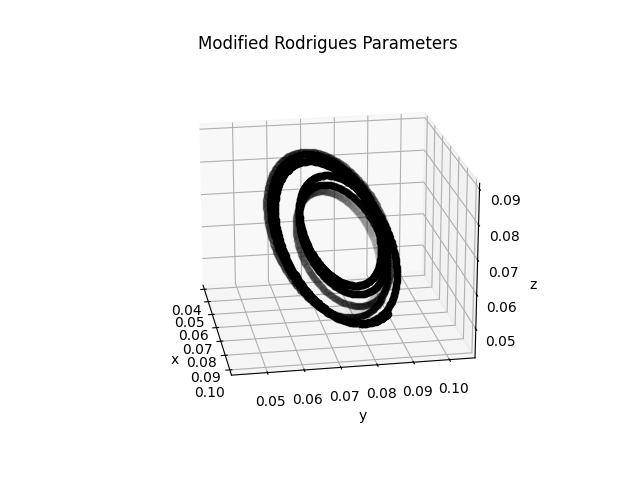
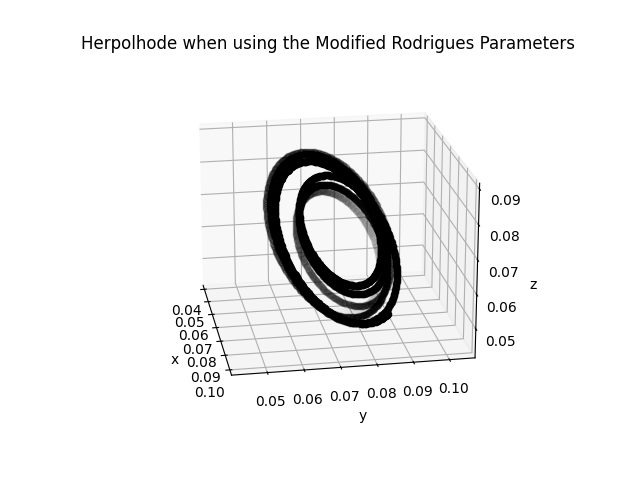
Better title and code structure

Changed region(s): [[0.125, 0.0625, 0.9062, 0.125]]

diff --git a/ps3_inertial_plotting.py b/ps3_inertial_plotting.py
@@ -141,16 +141,7 @@ if False:
 # First, calculate the angular velocities in the inertial frame
 omega_inertial_history_per_sat = []
 
-
-# Then we will plot the angular velocities in the inertial frame
-
-# Do this per satellite
 for sat_name, sat_df in zip(["MRP", "QTR"], [mrp_satellite_df, qtr_satellite_df]):
-    fig = plt.figure()
-    ax = plt.axes(projection='3d')
-
-    # Set the viewpoint
-    ax.view_init(elev=viewpoint["elev"], azim=viewpoint["azim"])
 
     # Make list to store the history of the angular velocities
     omega_inertial_history = []
@@ -181,16 +172,36 @@ for sat_name, sat_df in zip(["MRP", "QTR"], [mrp_satellite_df, qtr_satellite_df]
         # omega_inertial = np.dot(dcm, omega_body)
 
         omega_inertial_history.append(omega_inertial)
-
-        # print(f"accessing index {i // num_skip} with i = {i}")
-        alpha = alpha_linear_scaled[i // num_skip]
-
-        # Just plot the tip of the angular velocity vector
-        ax.scatter3D(omega_inertial[0], omega_inertial[1], omega_inertial[2], color="k", alpha=alpha)   
-        # ax.plot3D([0, omega_inertial[0]], [0, omega_inertial[1]], [0, omega_inertial[2]], "k", alpha=alpha)
     
     # Store the history of the angular velocities
     omega_inertial_history_per_sat.append(omega_inertial_history)
+
+
+# Then we will plot the angular velocities in the inertial frame
+
+# Do this per satellite
+for sat_name, sat_ang_vel in zip(["MRP", "QTR"], omega_inertial_history_per_sat):
+    fig = plt.figure()
+    ax = plt.axes(projection='3d')
+
+    # Set the viewpoint
+    ax.view_init(elev=viewpoint["elev"], azim=viewpoint["azim"])
+
+    # Stack the history of the angular velocities as np array (time, 3)
+    omega_inertial_history = np.array(sat_ang_vel)
+    assert omega_inertial_history.shape[1] == 3
+
+    # Just plot the tip of the angular velocity vector
+    # Plot by alpha which requires plotting each point separately
+    for (wxi, wyi, wzi), alpha in zip(sat_ang_vel, alpha_linear_scaled):
+        ax.scatter3D(wxi, wyi, wzi, color="k", alpha=alpha)
+
+    # ax.scatter3D(omega_inertial_history[:, 0], 
+    #              omega_inertial_history[:, 1], 
+    #              omega_inertial_history[:, 2], 
+    #              c=alpha_linear_scaled,
+    #              cmap="gray",
+    #              alpha=alpha_linear_scaled)
 
     ax.set_xlabel("x")
     ax.set_ylabel("y")
@@ -200,9 +211,9 @@ for sat_name, sat_df in zip(["MRP", "QTR"], [mrp_satellite_df, qtr_satellite_df]
     
     # Use more human names for the title
     if sat_name == "MRP":
-        title_name = "Modified Rodrigues Parameters"
+        title_name = "Herpolhode when using the Modified Rodrigues Parameters"
     else:
-        title_name = "Quaternions"
+        title_name = "Herpolhode when using the Quaternions"
 
     plt.title(title_name)
     plt.show()
